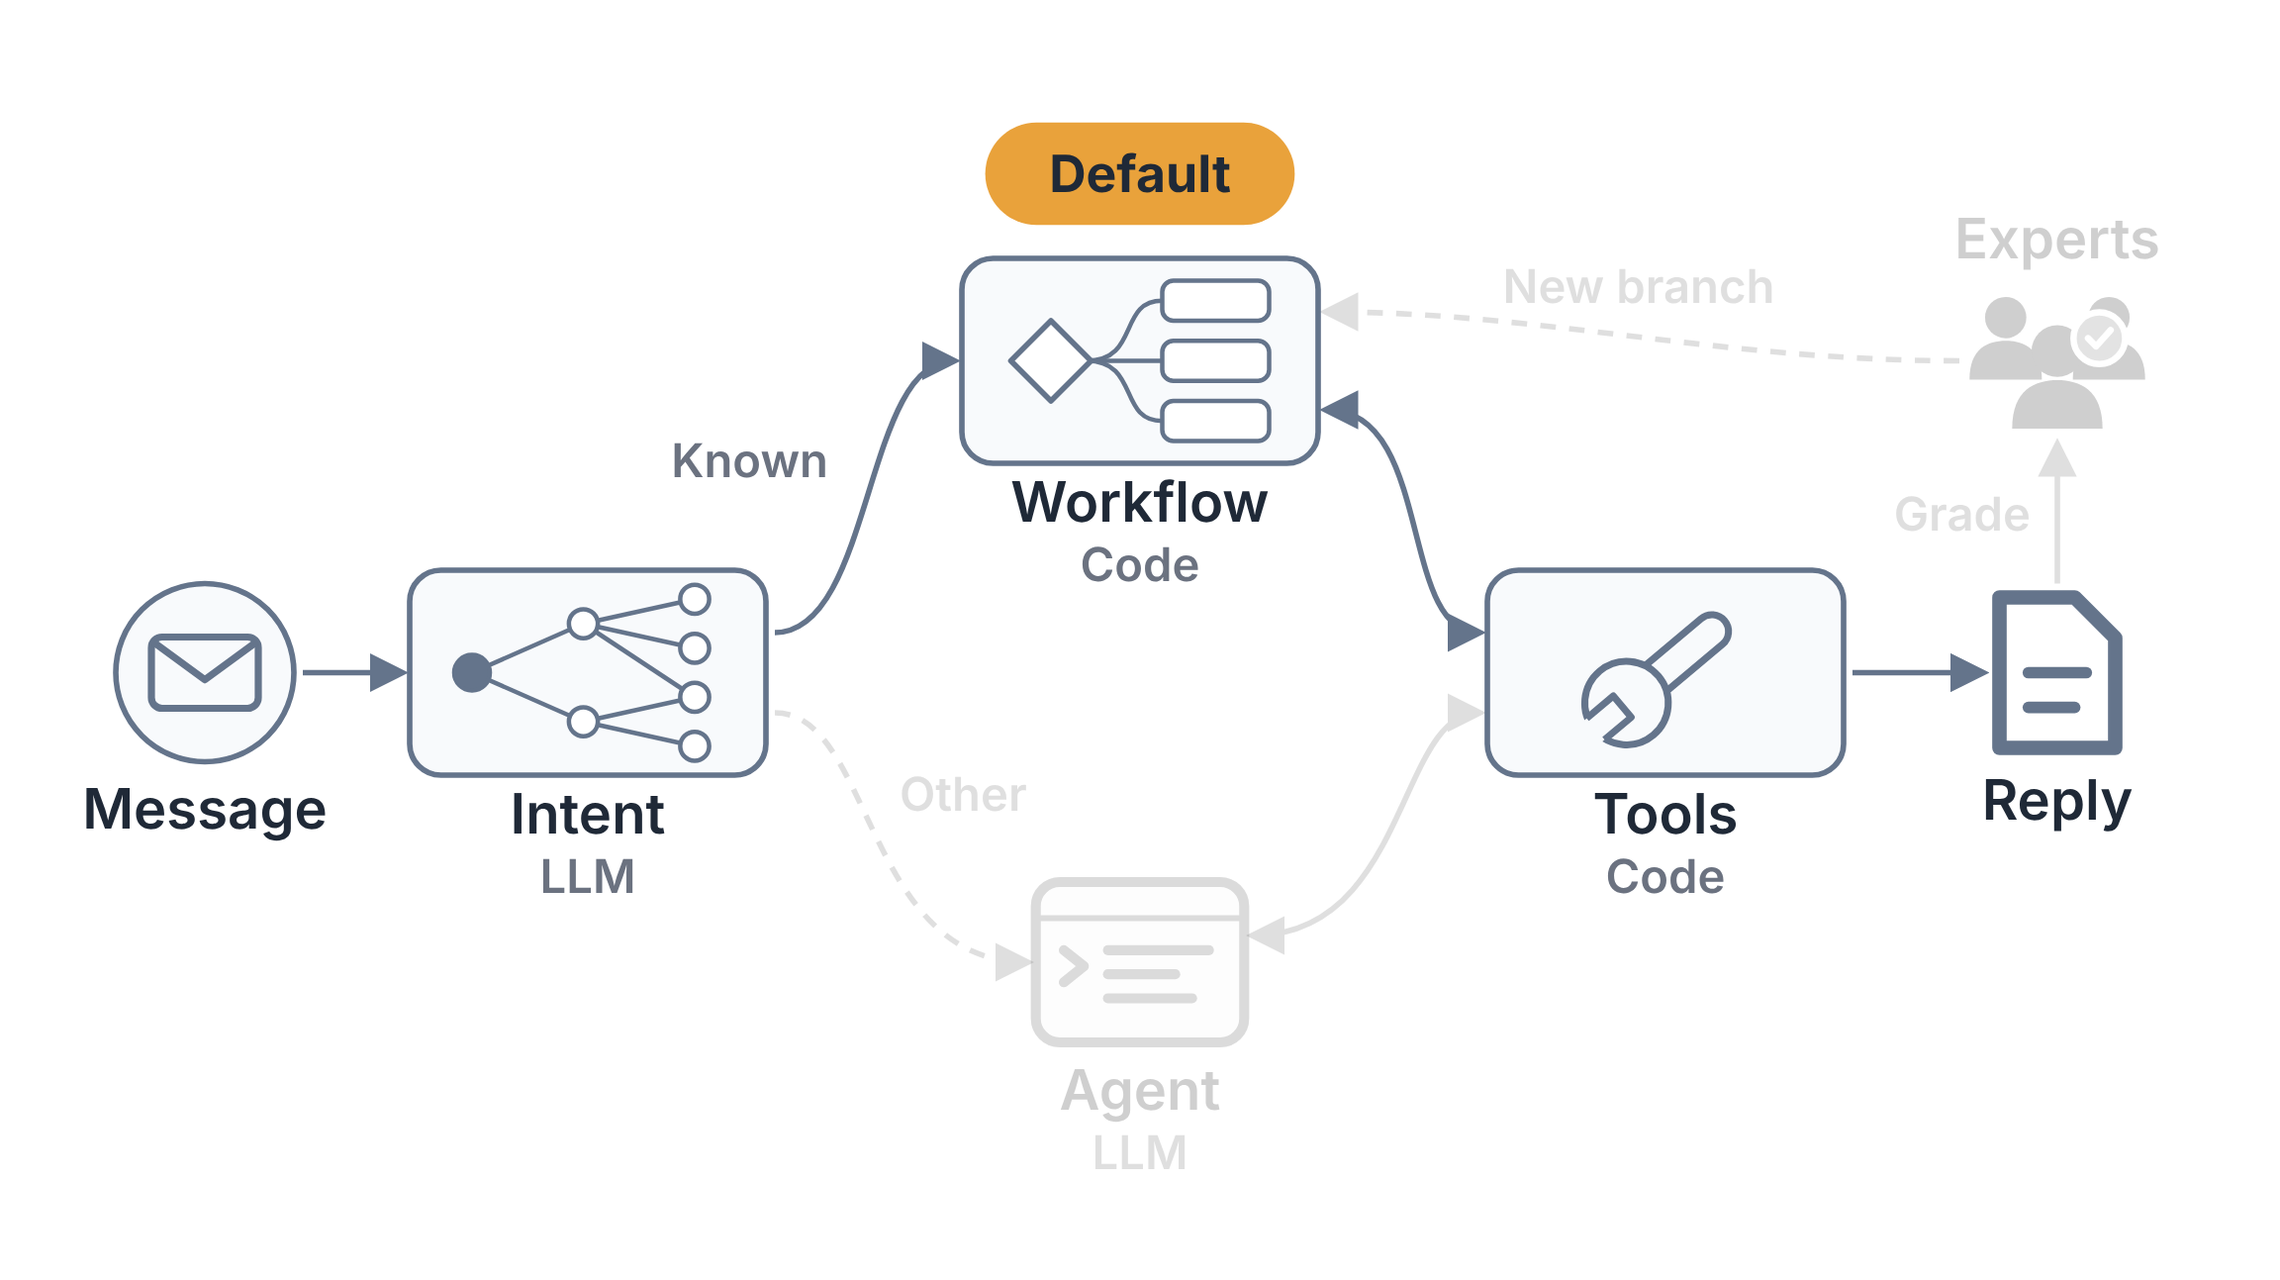
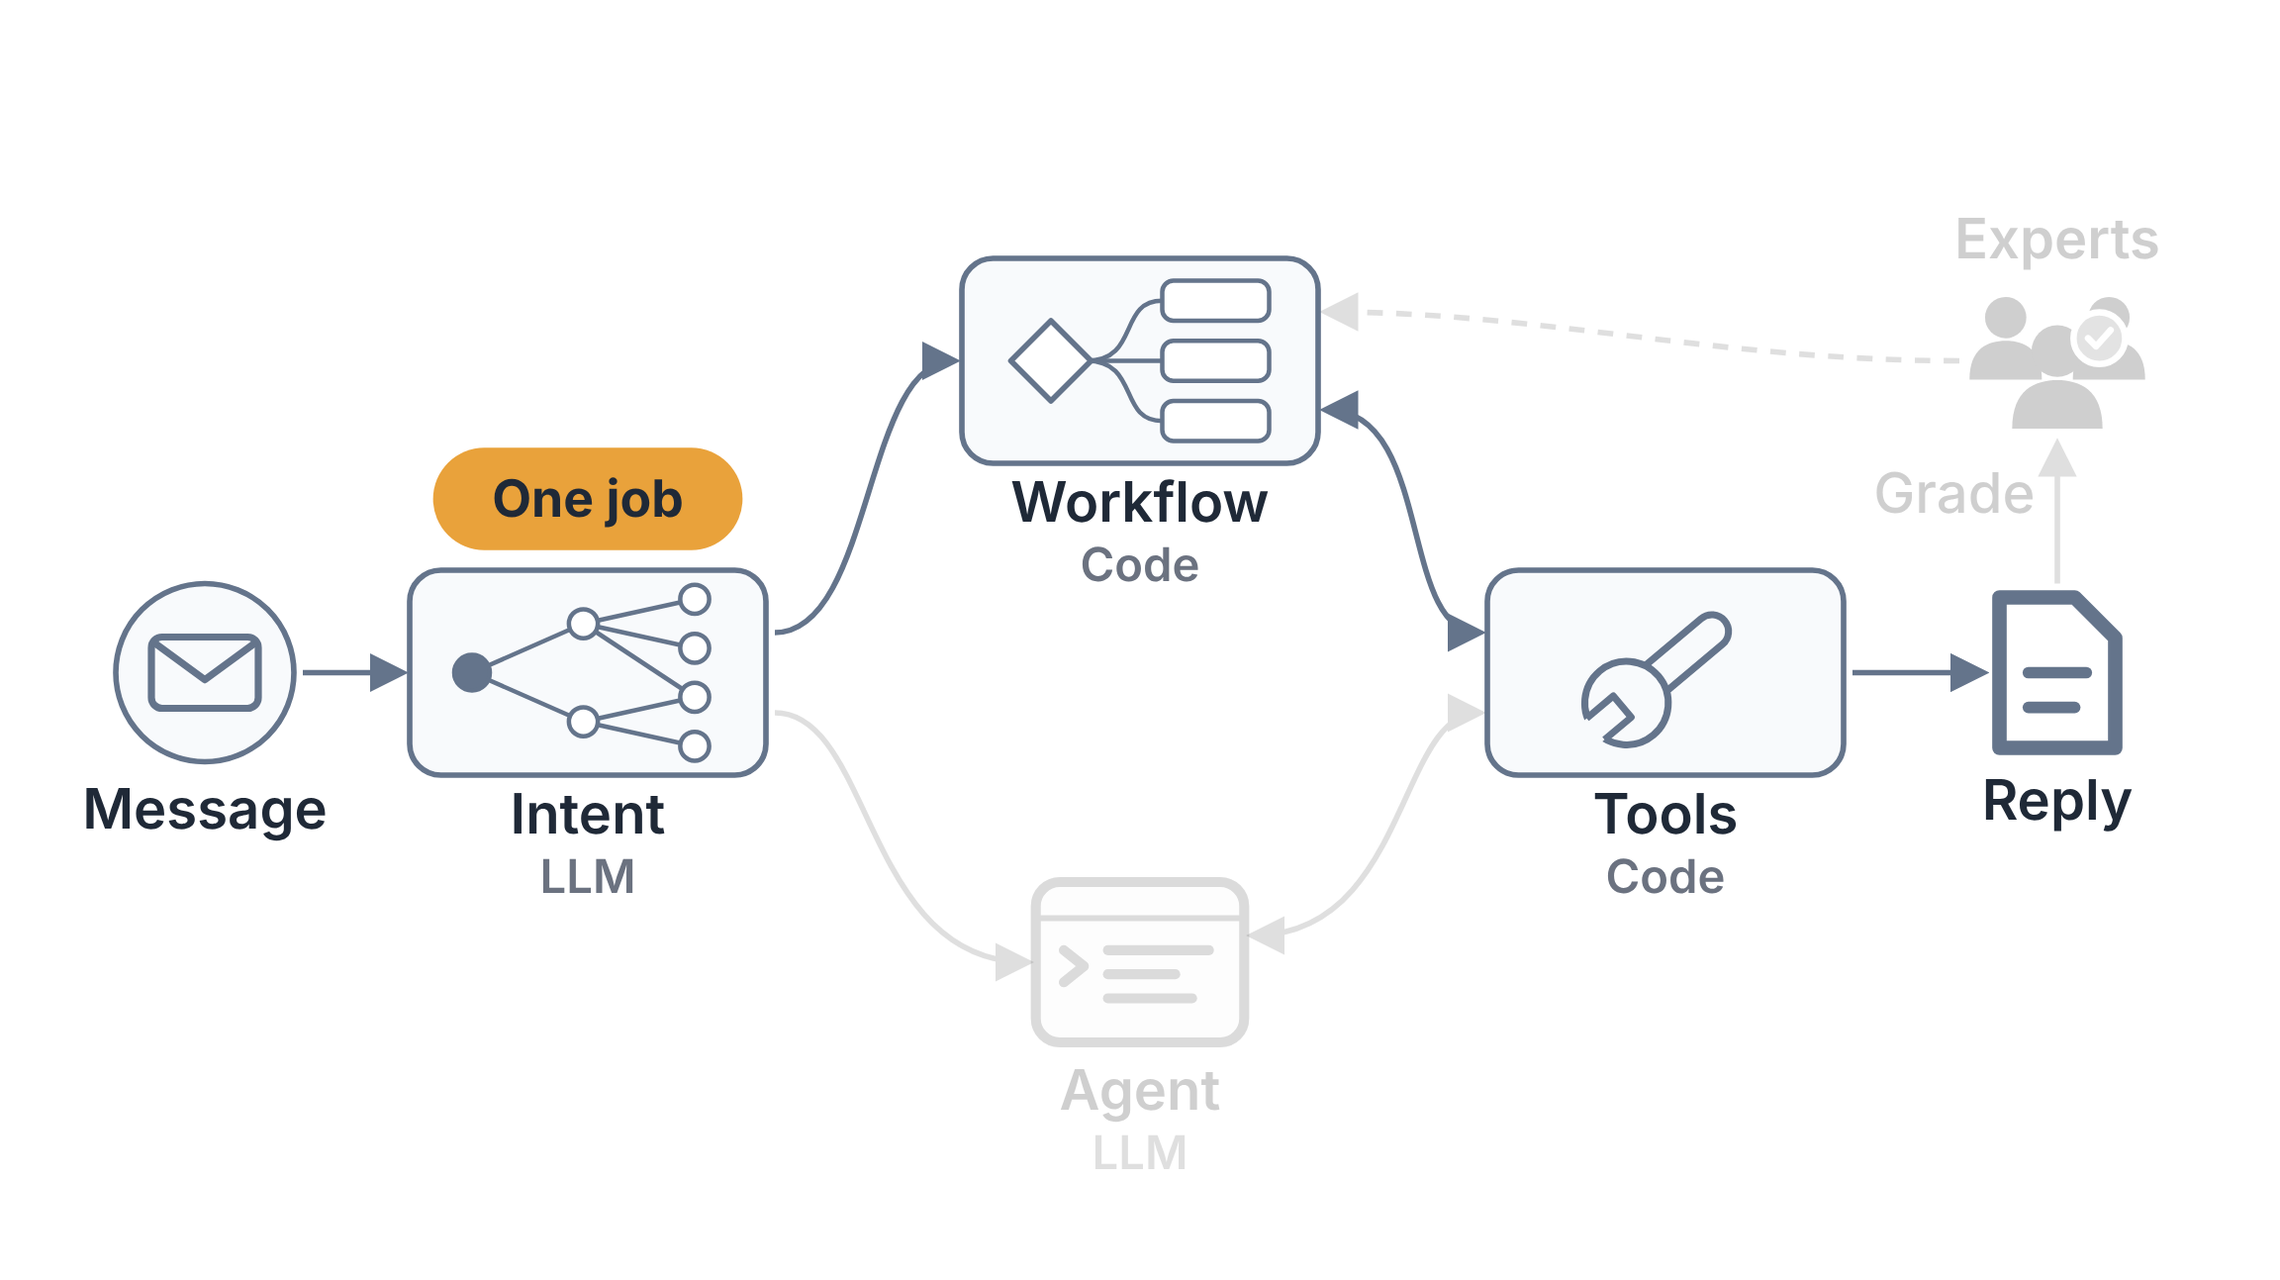
Give each Workflow or Agent map its own point and add a coverage schematic
The workflow map tags the LLM's one job instead of a default it didn't
have yet, the last map tags the experts, edge labels are larger and darker
on the small maps, and a schematic shows each new branch answering fewer
new tickets than the last.

Claude-Session: https://claude.ai/code/session_018UCML1Ku2mTj1EFmTaWVos

diff --git a/src/components/DecisionMap.tsx b/src/components/DecisionMap.tsx
@@ -41,7 +41,7 @@ export const PRESETS = {
     focus: [],
     guard: true,
     description:
-      'The system as one map: a customer message goes to intent recognition, an LLM call, which routes it either to a workflow in code or to an agent. Both act only through the same tools, which are code and can hold rules of their own, shown as a shield. The tools send the reply, and experts grade every reply; their grades feed back into the workflow.',
+      'The system as one map: a customer message goes to intent recognition, an LLM call, which routes it either to a workflow in code or to an agent that follows the bank’s policies. Both act only through the same tools, which are code and hold the rules that must never be broken, shown as a shield. The tools send the reply, and experts grade every reply; their grades feed back into the workflow.',
   },
   'agent-first': {
     focus: ['message', 'direct', 'agent', 'agentTools', 'tools', 'send', 'reply'],
@@ -51,21 +51,21 @@ export const PRESETS = {
     description:
       'Highlighted: the first design. The customer message goes straight to one agent holding every tool, which calls them in any order it chooses and sends the reply. Nothing makes it check the security flag before sending unlock instructions.',
   },
+  // Before the fallback agent existed: no default, since there was no other route yet.
   workflow: {
     focus: ['message', 'toIntent', 'intent', 'known', 'workflow', 'workflowTools', 'tools', 'send', 'reply'],
-    default: 'code',
-    tags: [{ on: 'workflow', text: 'Default' }],
+    tags: [{ on: 'intent', text: 'One job' }],
     small: true,
     description:
-      'Highlighted: the workflow. An LLM call reads the message, recognising the intent and extracting the identifier; code does the rest, looking up the account, checking the flag and sending the template, always in that order.',
+      'Highlighted: the workflow. The LLM has one job, reading the message: it recognises the intent and extracts the identifier. Code does the rest, looking up the account, checking the flag and sending the template, always in that order.',
   },
   tree: {
     focus: ['workflow', 'feedback', 'experts'],
     default: 'code',
-    tags: [{ on: 'workflow', text: 'Every cell' }],
+    tags: [{ on: 'workflow', text: 'Grows' }],
     small: true,
     description:
-      'Highlighted: the workflow, with the experts’ feedback adding a new branch to it each round. It needs a rule for every request on every account state.',
+      'Highlighted: the workflow, which grows a new branch each round of the experts’ feedback. It needs a branch for every request on every account state.',
   },
   fallback: {
     focus: ['intent', 'known', 'workflow', 'other', 'agent', 'reply', 'grade', 'experts'],
@@ -73,7 +73,7 @@ export const PRESETS = {
     tags: [{ on: 'workflow', text: 'Default' }],
     small: true,
     description:
-      'Highlighted: code is the default; only requests that land in an Other leaf go, by the dashed route, to the fallback agent. The experts grade every reply.',
+      'Highlighted: code is the default; only requests the tree doesn’t recognise land in an Other leaf and go, by the dashed route, to the fallback agent. The experts grade every reply.',
   },
   guards: {
     focus: ['tools', 'workflowTools', 'agentTools', 'workflow', 'agent'],
@@ -81,7 +81,7 @@ export const PRESETS = {
     tags: [{ on: 'tools', text: 'Must hold' }],
     small: true,
     description:
-      'Highlighted: the tools, with a guard in them, and both routes into them: whether the workflow or the agent calls a tool, the rule inside it holds.',
+      'Highlighted: the tools, with a rule inside them, and both routes into them: whether the workflow or the agent calls a tool, the rule holds. Anything a single mistake would make an incident is a rule and goes here; the rest is policy, for the agent to follow.',
   },
   // The end state, full size and all of it: the overview's parts, with the default swapped.
   'next-time': {
@@ -90,16 +90,16 @@ export const PRESETS = {
     guard: true,
     tags: [{ on: 'agent', text: 'Default' }],
     description:
-      'Next time: the agent is the default route, and a request type takes the dashed route to a workflow in code only once the experts’ grades say it should graduate. The guard stays in the tools on both routes.',
+      'Next time: the agent is the default route, following the bank’s policies, and the rules stay in the tools on both routes. A request type takes the dashed route to a workflow in code only once it graduates: the experts’ grades show it is common and the agent gets it wrong, or its action can’t be undone.',
   },
   start: {
-    focus: ['tools', 'agentTools', 'agent', 'send', 'reply', 'grade', 'experts', 'feedback', 'workflow'],
+    focus: ['experts', 'grade', 'feedback', 'workflow', 'agent', 'agentTools', 'tools', 'send', 'reply'],
     default: 'agent',
     guard: true,
-    tags: [{ on: 'tools', text: 'Build first' }],
+    tags: [{ on: 'experts', text: 'Fill the grid' }],
     small: true,
     description:
-      'Highlighted: what to build first. The rules in the tools, an agent behind them drafting replies, and the experts grading those replies; their grades decide which request types graduate into a workflow in code.',
+      'Highlighted: the experts, grading the agent’s replies from the first week. Their grades are how the bank’s unwritten policy gets written down, and they decide which request types graduate into a workflow in code: common ones the agent gets wrong. The rules stay in the tools.',
   },
 } satisfies Record<string, Preset>;
 
@@ -122,6 +122,8 @@ interface Layout {
   width: number;
   height: number;
   labelSize: number;
+  /** The words on the edges: as big as the node names in the small and the phone maps, which are shown smaller. */
+  edgeSize: number;
   tagSize: number;
   N: Record<NodeId, Point>;
   /** Paths for each edge; `twoWay` gives it an arrowhead at both ends, `label` is where its word goes if the preset gives it one. */
@@ -140,6 +142,7 @@ const WIDE: Layout = {
   width: 960,
   height: 510,
   labelSize: 21,
+  edgeSize: 19,
   tagSize: 19,
   N: {
     message: { x: 60, y: 270 },
@@ -161,7 +164,7 @@ const WIDE: Layout = {
     workflowTools: { d: 'M564,152 C612,152 596,252 632,252', twoWay: true },
     agentTools: { d: 'M531,388 C600,388 596,288 632,288', twoWay: true },
     send: { d: 'M800,270 H858' },
-    grade: { d: 'M892,230 V168', label: { x: 880, y: 206, anchor: 'end' } },
+    grade: { d: 'M892,230 V168', label: { x: 882, y: 198, anchor: 'end' } },
     // Along the top, above the tools, crossing nothing.
     feedback: { d: 'M848,130 C740,130 660,108 564,108', label: { x: 704, y: 104 } },
   },
@@ -177,6 +180,7 @@ const WIDE: Layout = {
   },
   guard: { x: 790, y: 228 },
   tags: {
+    intent: { x: 232, y: 192 },
     workflow: { x: 480, y: 46 },
     // Left of the agent, below the route coming in.
     agent: { x: 346, y: 456 },
@@ -187,7 +191,7 @@ const WIDE: Layout = {
 };
 
 /** Bigger type for the small section maps, drawn at about two thirds of the column. */
-const WIDE_SMALL: Layout = { ...WIDE, labelSize: 25, tagSize: 23 };
+const WIDE_SMALL: Layout = { ...WIDE, labelSize: 25, edgeSize: 25, tagSize: 23 };
 
 /**
  * The same map for phones, top to bottom: the message and intent, the
@@ -198,6 +202,7 @@ const TALL: Layout = {
   width: 620,
   height: 850,
   labelSize: 25,
+  edgeSize: 23,
   tagSize: 23,
   N: {
     message: { x: 310, y: 48 },
@@ -230,6 +235,8 @@ const TALL: Layout = {
   },
   guard: { x: 384, y: 568 },
   tags: {
+    // Under its labels, between the two routes.
+    intent: { x: 310, y: 322 },
     workflow: { x: 150, y: 496 },
     agent: { x: 470, y: 496 },
     tools: { x: 506, y: 616 },
@@ -401,9 +408,9 @@ function MapSvg({ layout, preset, id, className }: { layout: Layout; preset: Pre
                 x={edge.label.x}
                 y={edge.label.y}
                 textAnchor={edge.label.anchor ?? 'middle'}
-                fontSize={layout.labelSize - 4}
-                fontWeight={600}
-                fill={color('muted')}
+                fontSize={layout.edgeSize}
+                fontWeight={500}
+                fill={color('text')}
               >
                 {label}
               </text>

diff --git a/src/components/DecisionFigures.tsx b/src/components/DecisionFigures.tsx
@@ -5,6 +5,10 @@
  * - grid: three intents against three account states, the mapping a workflow
  *   has to spell out. The tree decided two cells, both for a locked account,
  *   Alex's among them; the other seven are question marks.
+ * - coverage: a schematic, not measured: the share of tickets the tree
+ *   answers, branch after branch. Each branch answers fewer new tickets than
+ *   the last, so the share flattens below all of them; Alex's Account locked
+ *   branch is an early one.
  * - unlock-tool: the flag check inside the unlock tool, called by the
  *   workflow or by the agent, with Alex's route from the agent to the unlock
  *   steps.
@@ -144,6 +148,76 @@ function IntentGrid() {
     <>
       <GridSvg layout={GRID_WIDE} className="figure-wide" />
       <GridSvg layout={GRID_TALL} className="figure-tall" />
+    </>
+  );
+}
+
+const CoverageDescription =
+  'Schematic, not measured: the share of tickets the tree answers, against the number of branches written. Each branch is a point; the first ones, Account locked among them, answer many tickets, and each later one answers fewer than the last, so the share flattens below all tickets, leaving a band unanswered.';
+
+interface CoverageLayout {
+  width: number;
+  height: number;
+  size: number;
+  plot: { left: number; right: number; top: number; bottom: number };
+}
+
+const COVERAGE_WIDE: CoverageLayout = { width: 560, height: 290, size: 17, plot: { left: 44, right: 470, top: 30, bottom: 246 } };
+const COVERAGE_TALL: CoverageLayout = { width: 400, height: 300, size: 19, plot: { left: 44, right: 316, top: 30, bottom: 248 } };
+
+/** Branches written, the share the tree answers after the k-th, and which one is Account locked. */
+const BRANCHES = 12;
+const CEILING = 0.8;
+const KEEP = 0.72;
+const answered = (k: number) => CEILING * (1 - KEEP ** k);
+const ACCOUNT_LOCKED = 2;
+
+function CoverageSvg({ layout, className }: { layout: CoverageLayout; className: string }) {
+  const { plot, size } = layout;
+  const x = (k: number) => plot.left + (k / BRANCHES) * (plot.right - plot.left);
+  const y = (share: number) => plot.bottom - share * (plot.bottom - plot.top);
+  const points = Array.from({ length: BRANCHES + 1 }, (_, k) => ({ x: x(k), y: y(answered(k)) }));
+  const last = points[BRANCHES];
+  const alex = points[ACCOUNT_LOCKED];
+  const axis = { stroke: color('edge'), strokeWidth: 2 };
+  return (
+    <Svg viewBox={`0 0 ${layout.width} ${layout.height}`} label={CoverageDescription} className={className}>
+      {/* What no branch answers yet, in the grid's colour for a gap */}
+      <rect x={plot.left} y={y(1)} width={plot.right - plot.left} height={last.y - y(1)} fill={color('other-bg')} />
+      <line x1={plot.left} x2={plot.right} y1={y(1)} y2={y(1)} stroke={color('other')} strokeWidth={2} strokeDasharray="5 4" />
+      <Text x={plot.right + 8} y={y(1)} anchor="start" size={size} muted>
+        All
+      </Text>
+      <text x={plot.right - 10} y={(y(1) + last.y) / 2} dy="0.35em" textAnchor="end" fontSize={size} fontWeight={600} fill={color('other')}>
+        Unanswered
+      </text>
+
+      <line x1={plot.left} x2={plot.right} y1={plot.bottom} y2={plot.bottom} {...axis} />
+      <line x1={plot.left} x2={plot.left} y1={plot.bottom} y2={plot.top - 10} {...axis} />
+      <text transform={`translate(${plot.left - 16} ${(plot.top + plot.bottom) / 2}) rotate(-90)`} textAnchor="middle" fontSize={size} fontWeight={600} fill={color('muted')}>
+        Tickets answered
+      </text>
+      <Text x={plot.right} y={plot.bottom + size + 8} anchor="end" size={size} muted>
+        Branches written →
+      </Text>
+
+      <polyline points={points.map((p) => `${p.x},${p.y}`).join(' ')} fill="none" stroke={color('node-border')} strokeWidth={2.5} strokeLinejoin="round" />
+      {points.slice(1).map((p, i) => (
+        <circle key={i} cx={p.x} cy={p.y} r={i + 1 === ACCOUNT_LOCKED ? 7 : 4.5} fill={i + 1 === ACCOUNT_LOCKED ? ALEX : color('node-border')} stroke={color('surface')} strokeWidth={2} />
+      ))}
+      {/* Below the steep start, where the curve leaves room */}
+      <text x={alex.x + 14} y={alex.y + 22} fontSize={size} fontWeight={650} fill={color('text')}>
+        Account locked
+      </text>
+    </Svg>
+  );
+}
+
+function Coverage() {
+  return (
+    <>
+      <CoverageSvg layout={COVERAGE_WIDE} className="figure-wide" />
+      <CoverageSvg layout={COVERAGE_TALL} className="figure-tall" />
     </>
   );
 }
@@ -336,6 +410,7 @@ function UnlockTool() {
  */
 export const FIGURES = {
   grid: { component: IntentGrid, description: GridDescription, width: 560 },
+  coverage: { component: Coverage, description: CoverageDescription, width: 500 },
   'unlock-tool': { component: UnlockTool, description: UnlockToolDescription, width: 500 },
 } satisfies Record<string, { component: ComponentType; description: string; width: number }>;
 

diff --git a/tests/decision-map.spec.ts b/tests/decision-map.spec.ts
@@ -23,6 +23,15 @@ test.describe('Figures in Workflow or Agent', () => {
     await expect(first.getByText('Any order')).toBeVisible();
     await expect(first.getByText('Workflow')).toHaveCount(0);
 
+    // Before the fallback there is no default: the LLM's one job is reading the message.
+    const workflow = page.locator('figure.decision-map[data-confluence-png$="/map-workflow.png"] svg:visible');
+    await expect(workflow.getByText('One job')).toBeVisible();
+    await expect(workflow.getByText('Default')).toHaveCount(0);
+
+    // The close is about the experts, not the tools.
+    const start = page.locator('figure.decision-map[data-confluence-png$="/map-start.png"] svg:visible');
+    await expect(start.getByText('Fill the grid')).toBeVisible();
+
     // Next time, the default moves to the agent and a request type graduates into code.
     // Both layouts carry the labels; only the one that fits the width is shown.
     const next = page.locator('figure.decision-map[data-confluence-png$="/map-next-time.png"] svg:visible');
@@ -31,14 +40,17 @@ test.describe('Figures in Workflow or Agent', () => {
     await expect(next.getByText('Graduate', { exact: true })).toBeVisible();
   });
 
-  test('the running example has the grid and the unlock tool, and no Mermaid', async ({ page }) => {
+  test('the running example has the grid, the coverage schematic and the unlock tool, and no Mermaid', async ({ page }) => {
     await page.goto(POST);
     const figures = page.locator('figure.decision-figure');
-    await expect(figures).toHaveCount(2);
+    await expect(figures).toHaveCount(3);
     const grid = figures.nth(0).locator('svg:visible');
     await expect(grid.getByText('Unlock steps')).toBeVisible();
     await expect(grid.getByText('?', { exact: true })).toHaveCount(7);
-    const tool = figures.nth(1).locator('svg:visible');
+    const coverage = figures.nth(1).locator('svg:visible');
+    await expect(coverage.getByText('Branches written →')).toBeVisible();
+    await expect(coverage.getByText('Account locked')).toBeVisible();
+    const tool = figures.nth(2).locator('svg:visible');
     await expect(tool.getByText('Flagged?')).toBeVisible();
     await expect(tool.getByText('Refuse')).toBeVisible();
     await expect(page.locator('.prose .mermaid, .prose pre.mermaid')).toHaveCount(0);
@@ -83,7 +95,7 @@ test.describe('Figures in Workflow or Agent', () => {
     await expect(body.locator('svg, figure')).toHaveCount(0);
     const srcs = await body.locator('img').evaluateAll((imgs) => imgs.map((img) => img.getAttribute('src')));
     const base = 'https://danielfridljand.de/images/blog/workflow-vs-agent';
-    for (const png of [...PRESETS.map((p) => `map-${p}`), 'grid', 'unlock-tool']) {
+    for (const png of [...PRESETS.map((p) => `map-${p}`), 'grid', 'coverage', 'unlock-tool']) {
       expect(srcs).toContain(`${base}/${png}.png`);
     }
   });
